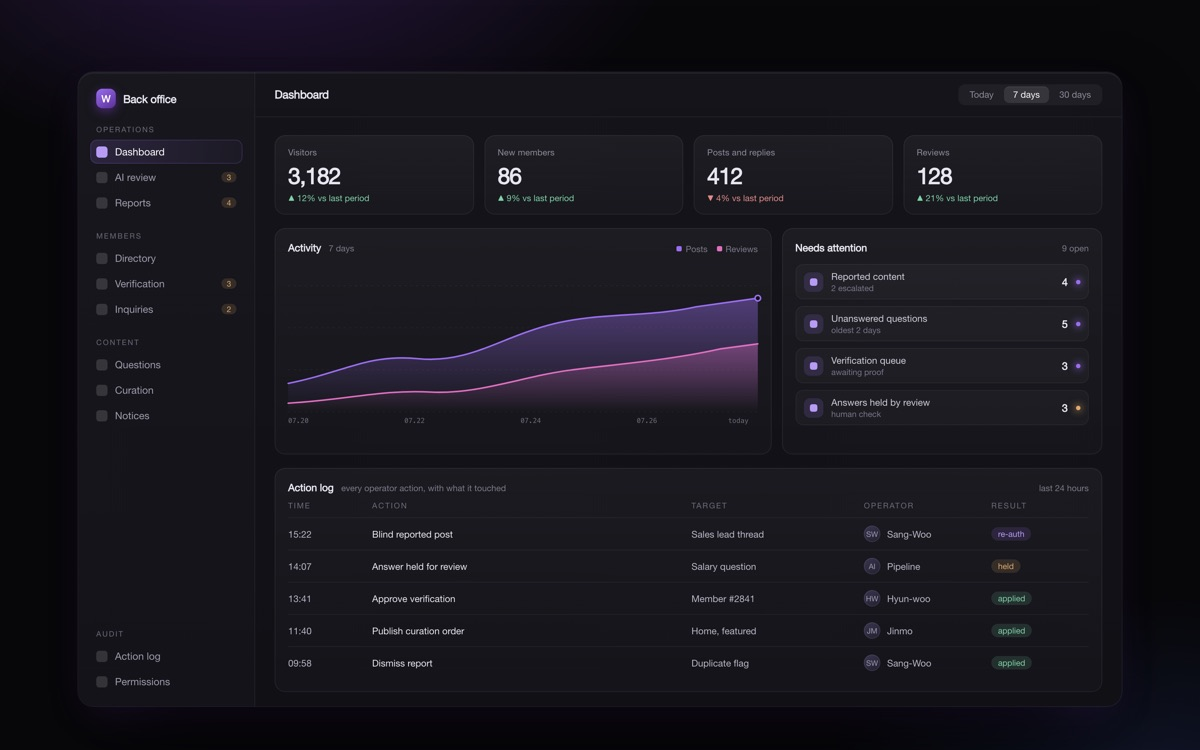
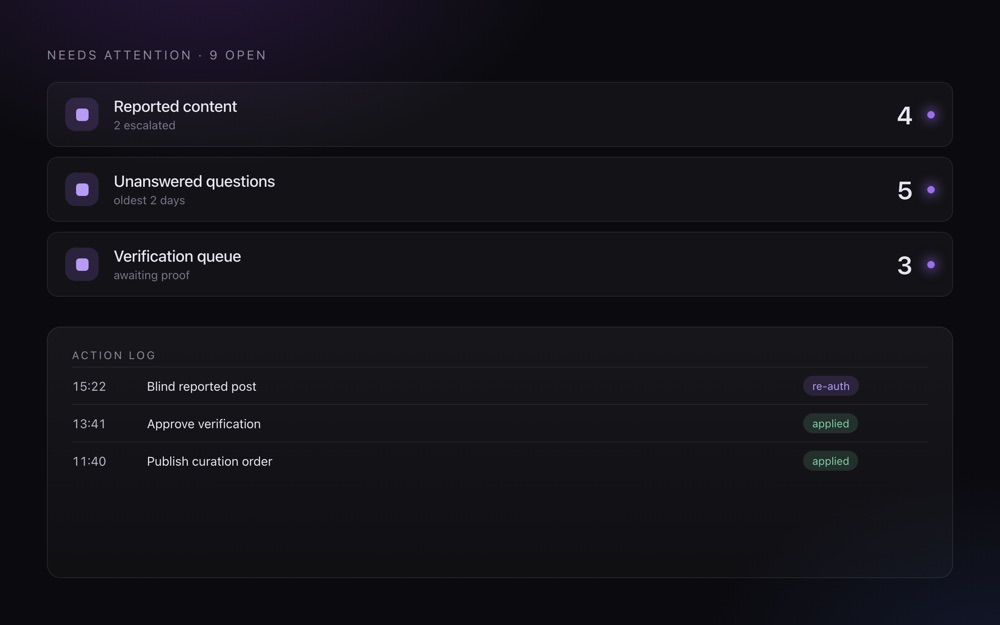
fix(home): each hover image is a crop of one thing, not a whole product
The four pictures were the same picture. Every one drew the entire module as a
dark admin page with a sidebar and a grid of cards, and at the 344px the hover
frame gives them nothing told them apart, so none of them said which module it
belonged to. The detail that made each one that module existed, buried at a
size no reader would ever see it.

Each now shows one thing and stops:

  ui-kit             the brand ramp with its hex values, and the same card
                     rendered in both themes side by side
  backoffice-frame   the operator queue with its counts, over an action log
                     where one row is marked re-auth
  ai-pipeline-sdk    the three safety gates as switches, and the number of
                     answers the third one is holding
  notification-file  the mail that went out, beside the four recipient rules
                     with the one the rule stopped

Legible at thumbnail size is the whole requirement. If a new one needs a
caption to be understood, it is drawing too much.

Smaller too, because a crop carries less: 191 KB for four, down from 373.

diff --git a/mockups/research-led/data.ts b/mockups/research-led/data.ts
@@ -159,9 +159,20 @@ export type PracticeRow = {
    * the row says what it is offering evidence of before it is clicked. */
   meta: string;
   /* The picture that appears when the row is pointed at. A composition, not a
-   * screenshot: each was built as HTML at 1600x1000, rendered at 2x with
-   * Playwright, and shipped at 1200px. Four of them share one stylesheet, so
-   * the lighting and the component set are identical across the set.
+   * screenshot: built as HTML, rendered at 2x with Playwright, shipped at
+   * 1000px. Four of them share one stylesheet, so the lighting and the
+   * component set are identical across the set.
+   *
+   * EACH ONE IS A CROP, NOT A SCREEN. The first pass drew the whole product
+   * for every module and all four came out as the same dark admin page with a
+   * sidebar; at the 344px the hover frame gives them, nothing told them apart
+   * and none of them said which module it belonged to. Each now shows the one
+   * thing that makes that module that module and nothing else: the token ramp
+   * beside the same card in both themes, the operator queue with its counts,
+   * the three safety gates with the number they held, the mail that went out
+   * beside the rule that stopped one. Legible at thumbnail size is the whole
+   * requirement; if a new one needs a caption to be understood, it is drawing
+   * too much.
    *
    * Hover-only on purpose. The row has to read without it, because a phone has
    * no hover and a keyboard arrives through focus rather than a pointer.
